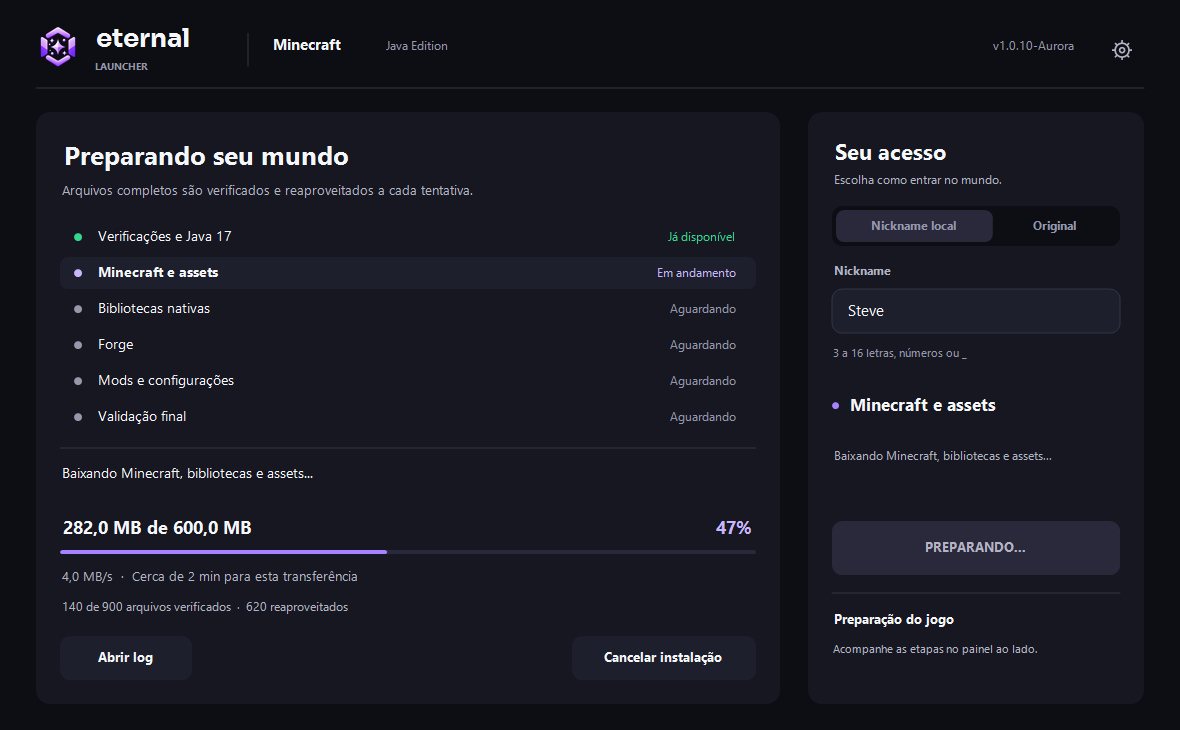
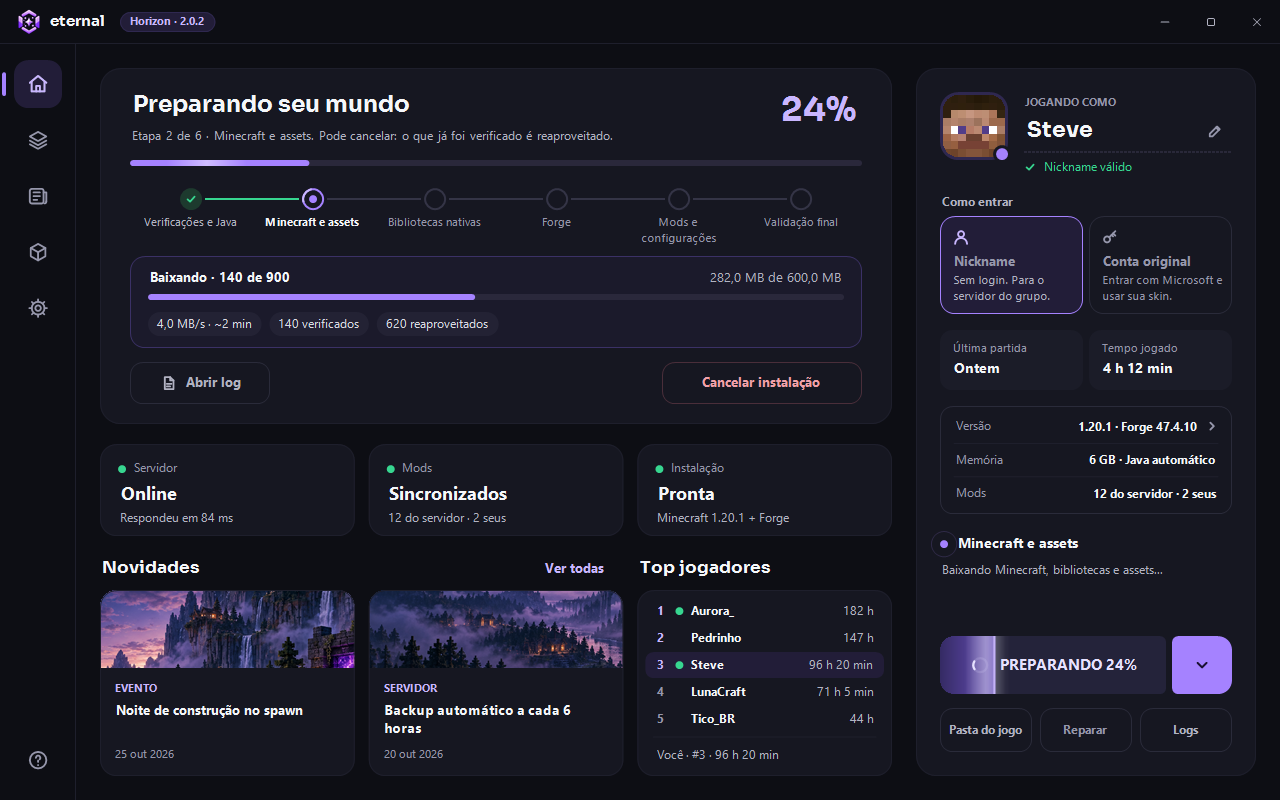
docs: refresh screenshots and changelog for the new Home
Re-render main-interface.png and installation.png at 1280 x 800 from the
production renderer, describe the compact installation panel and the
skin avatar in the README, and list the account switch fix under
Unreleased.

diff --git a/README.md b/README.md
@@ -61,8 +61,9 @@ alternative ([step by step](docs/AUTOUPDATE.md#two-click-wizard)).
 - Help page with repair, logs and copyable support information.
 - Vector logo and custom icon, with the landscape and font embedded in the executable.
 - Portal opening, three-layer particles, a light that follows the cursor on the Play button, page fades and eased hover feedback, all respecting the Windows animation preference. [Animation details](docs/ANIMATIONS.md).
-- Choice between a local nickname and an original Microsoft account login.
+- Choice between a local nickname and an original Microsoft account login, switchable both ways at any time.
 - Nickname field validated to 3–16 letters, digits or `_`.
+- Player avatar with the real skin face: typing a name that belongs to a Java Edition account shows that account's skin (looked up through Mojang's public API, cached per session); other names show the classic default face.
 - Asynchronous query of the configured HTTP server's manifest.
 - Executable AutoUpdate with RSA-PSS/SHA-256 signatures, backup and rollback.
 - Automatic discovery of mods uploaded to the server's `mods/` folder.
@@ -188,10 +189,12 @@ extension and only replace the destination after the hash is verified.
 
 ### Tracking and cancelling the installation
 
-After clicking **Jogar**, the left area shows six stages: checks and Java 17,
-Minecraft and assets, native libraries, Forge, mods and configuration, and final
-validation. The account and the summary stay on the right. Minecraft opens
-automatically when preparation finishes successfully.
+After clicking **Jogar**, a compact panel takes the place of the landscape at the
+top of Home and shows six stages as a stepper: checks and Java 17, Minecraft and
+assets, native libraries, Forge, mods and configuration, and final validation. The
+status tiles, news and leaderboard stay visible below it, and the account and the
+summary stay on the right. Minecraft opens automatically when preparation finishes
+successfully.
 
 During transfers, the panel shows downloaded bytes, the current transfer's
 percentage, speed, remaining time when it can be estimated, and verified/reused

diff --git a/docs/images/README.md b/docs/images/README.md
@@ -1,6 +1,6 @@
 # Interface captures
 
-`main-interface.png` is a deterministic render of the final interface at 1180 × 730, with an illustrative ready-installation state and the nickname Steve. The data in this image is sample data; the real window queries the existing services.
+`main-interface.png` is a deterministic render of the final interface at 1280 × 800, with an illustrative ready-installation state and the nickname Steve. The data in this image is sample data; the real window queries the existing services.
 
 To generate the previews without starting downloads, signing in or opening Minecraft:
 
@@ -14,7 +14,8 @@ The previews don't represent real server results and don't replace installation/
 
 `settings.png` is the 1180 × 730 preview with the default values, produced by the same renderer. It shows neither a game session nor the user's saved preferences.
 
-`installation.png` is the download preview at 1180 × 730 with illustrative values.
+`installation.png` is the download preview at 1280 × 800 with illustrative values: the
+compact installation panel in the hero's slot, with tiles, news and ranking still visible.
 `installation.origin.txt` records its origin. Additional captures from a visible
 native host are in `.impeccable/review/installation/installation-live*.png`; they
 show real controls with synthetic data, not a real installation or Minecraft session.

diff --git a/CHANGELOG.md b/CHANGELOG.md
@@ -4,6 +4,22 @@ All notable changes to Eternal Launcher are documented here.
 The format follows [Keep a Changelog](https://keepachangelog.com/en/1.1.0/)
 and versions use [SemVer](https://semver.org/) plus a codename.
 
+## [Unreleased]
+
+### Added
+- **Real skin in the avatar.** The player card shows the face of the skin that belongs
+  to the nickname (or Microsoft account) in use. Names without an original account
+  show the classic default face.
+
+### Changed
+- **Installation no longer covers Home.** While the game is prepared, a compact panel
+  with a six-step stepper replaces only the landscape; status tiles, news and the
+  leaderboard stay visible and clickable.
+
+### Fixed
+- After choosing **Conta original**, the **Nickname** card could not be clicked, so
+  there was no way back to nickname mode until the launcher was restarted.
+
 ## [2.1.0] — Horizon · 2026-11-08
 
 ### Added
